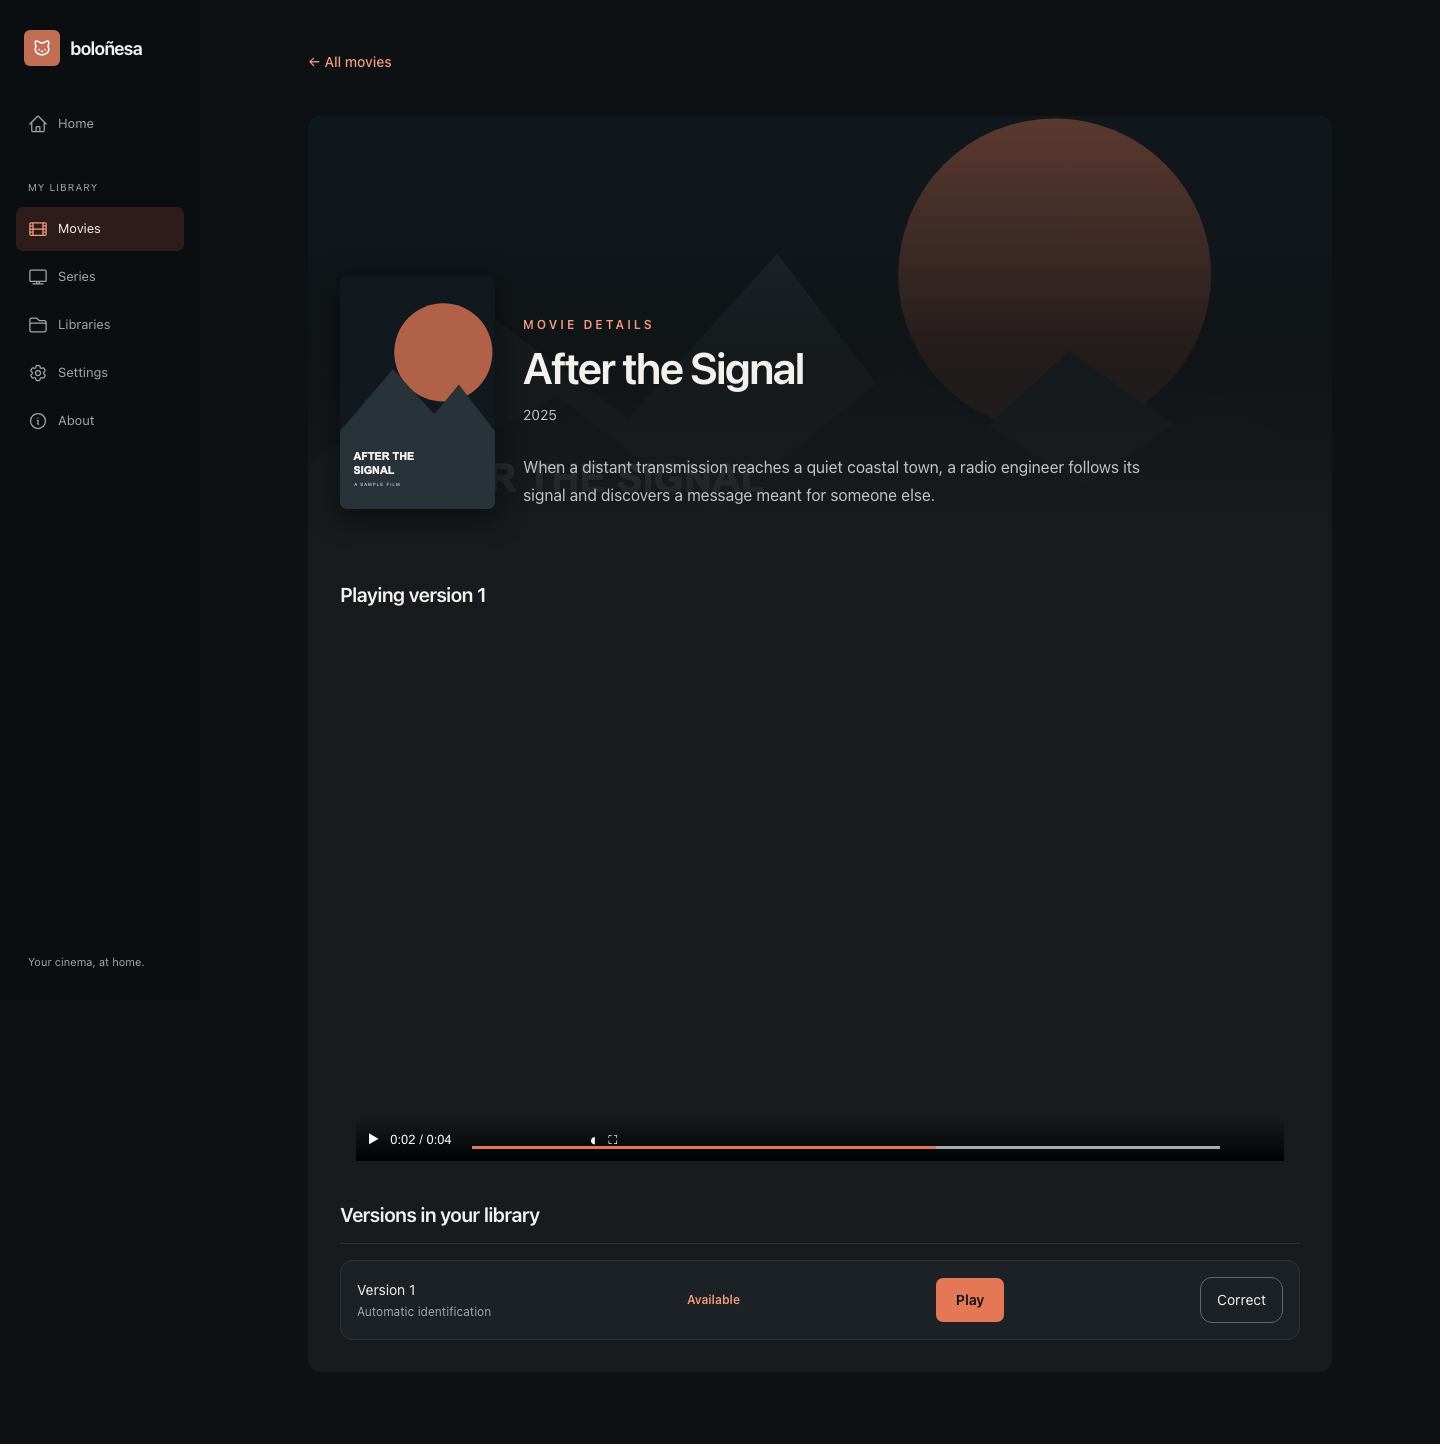
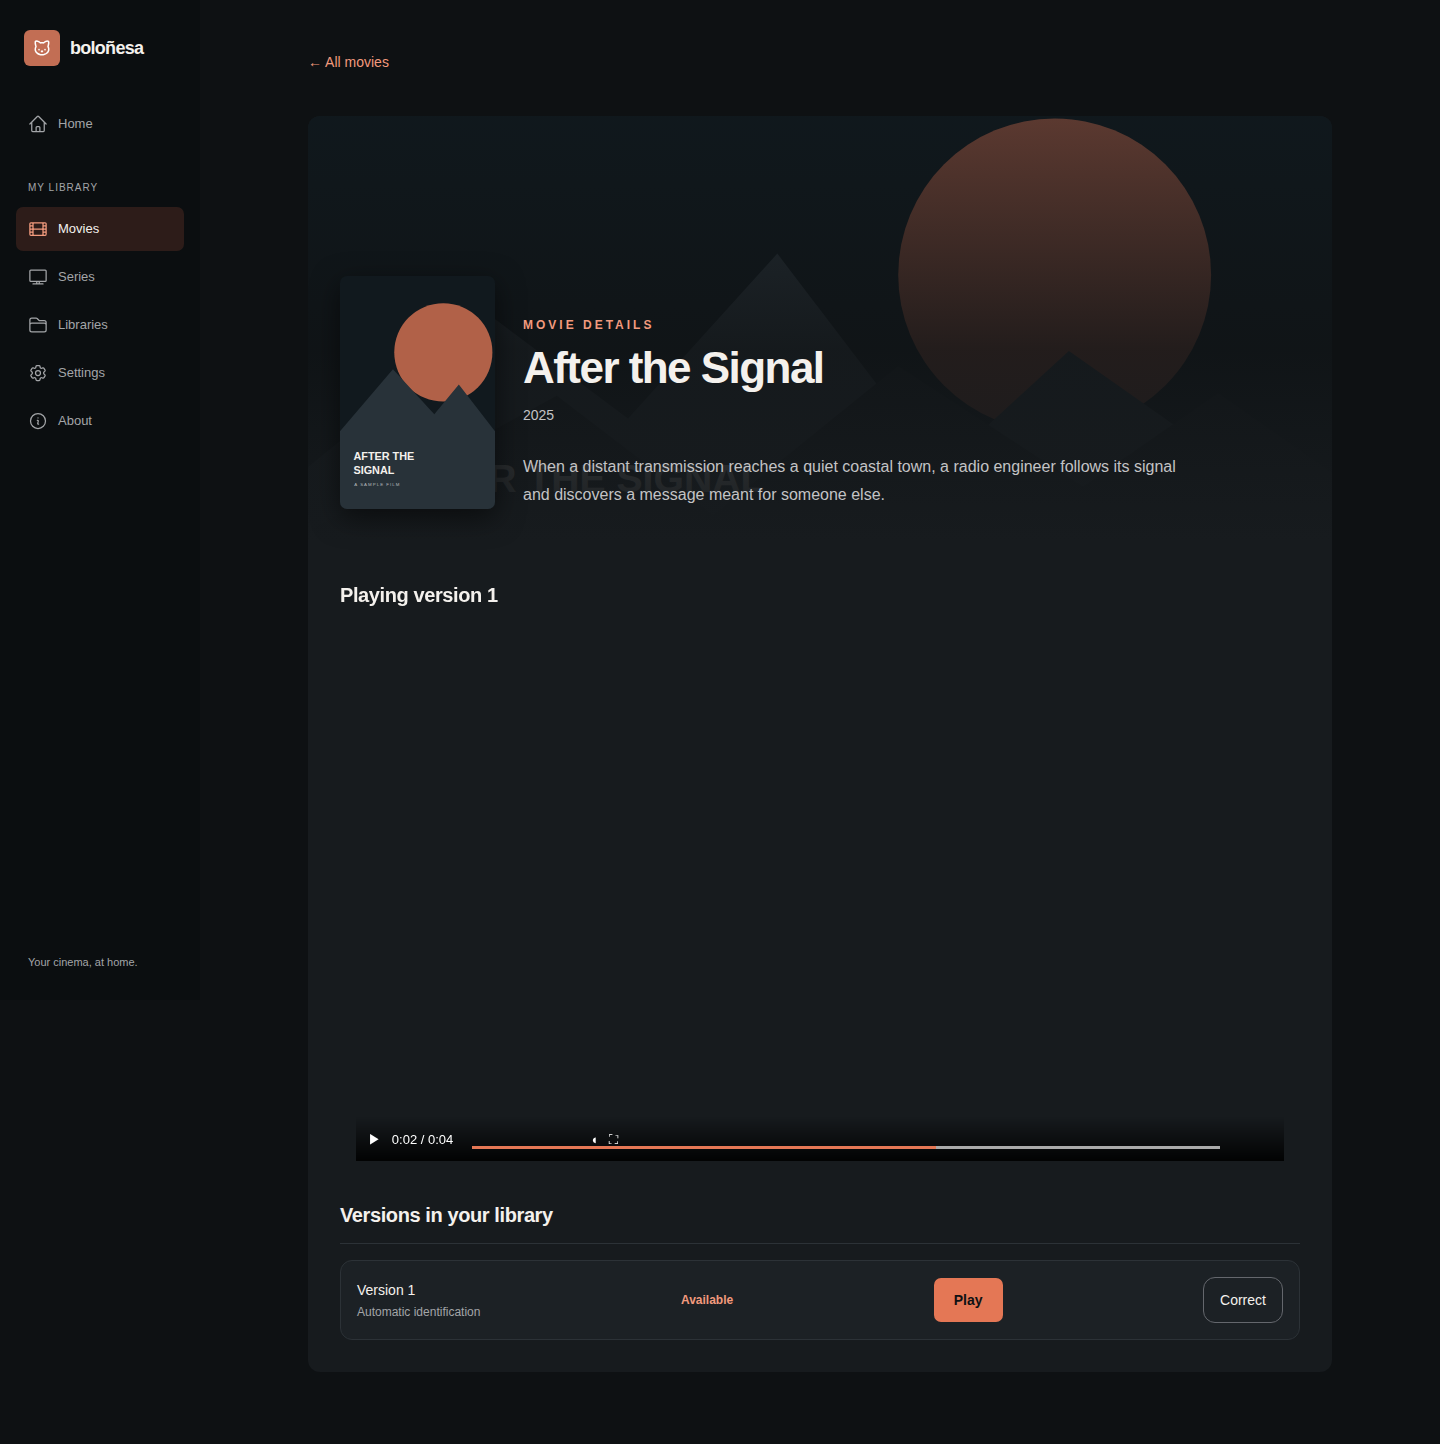
fix(screenshots): pin Linux browser rendering across environments

diff --git a/CONTRIBUTING.md b/CONTRIBUTING.md
@@ -27,7 +27,7 @@ Open [http://localhost:4000](http://localhost:4000) and create the first adminis
 
 For native development, install Elixir 1.17 or newer in the supported 1.x series, Erlang/OTP, PostgreSQL and `ffprobe`. Configure PostgreSQL as in `config/dev.exs`, then run `mix setup` and `mix phx.server`. Use `mix test` for the test suite and `mix precommit` for the full local check. Tests use PostgreSQL.
 
-For interface changes, regenerate the README gallery with `make screenshots`. This needs Docker and Node.js/npm; Playwright installs Chromium. The command starts a temporary PostgreSQL container and uses synthetic demo data and a browser-generated video. CI runs the same capture flow for application, asset, configuration, or screenshot workflow changes and fails when the committed images are stale.
+For interface changes, regenerate the README gallery with `make screenshots`. This needs Docker and Node.js/npm. The command uses a pinned Linux/amd64 Playwright container so Chromium and fonts match CI, starts a temporary PostgreSQL container and uses synthetic demo data and a browser-generated video. CI runs the same capture flow for application, asset, configuration, or screenshot workflow changes and fails when the committed images are stale.
 
 The app is organized by domain context under `lib/bolognesa/`, with the Phoenix interface in `lib/bolognesa_web/` and matching tests under `test/`. See the [architecture decision](docs/decisions/0001-architecture-foundation.md) and [backend conventions](docs/conventions/backend.md) for details. Follow the nearest existing pattern; explain a change when it improves that pattern.
 
